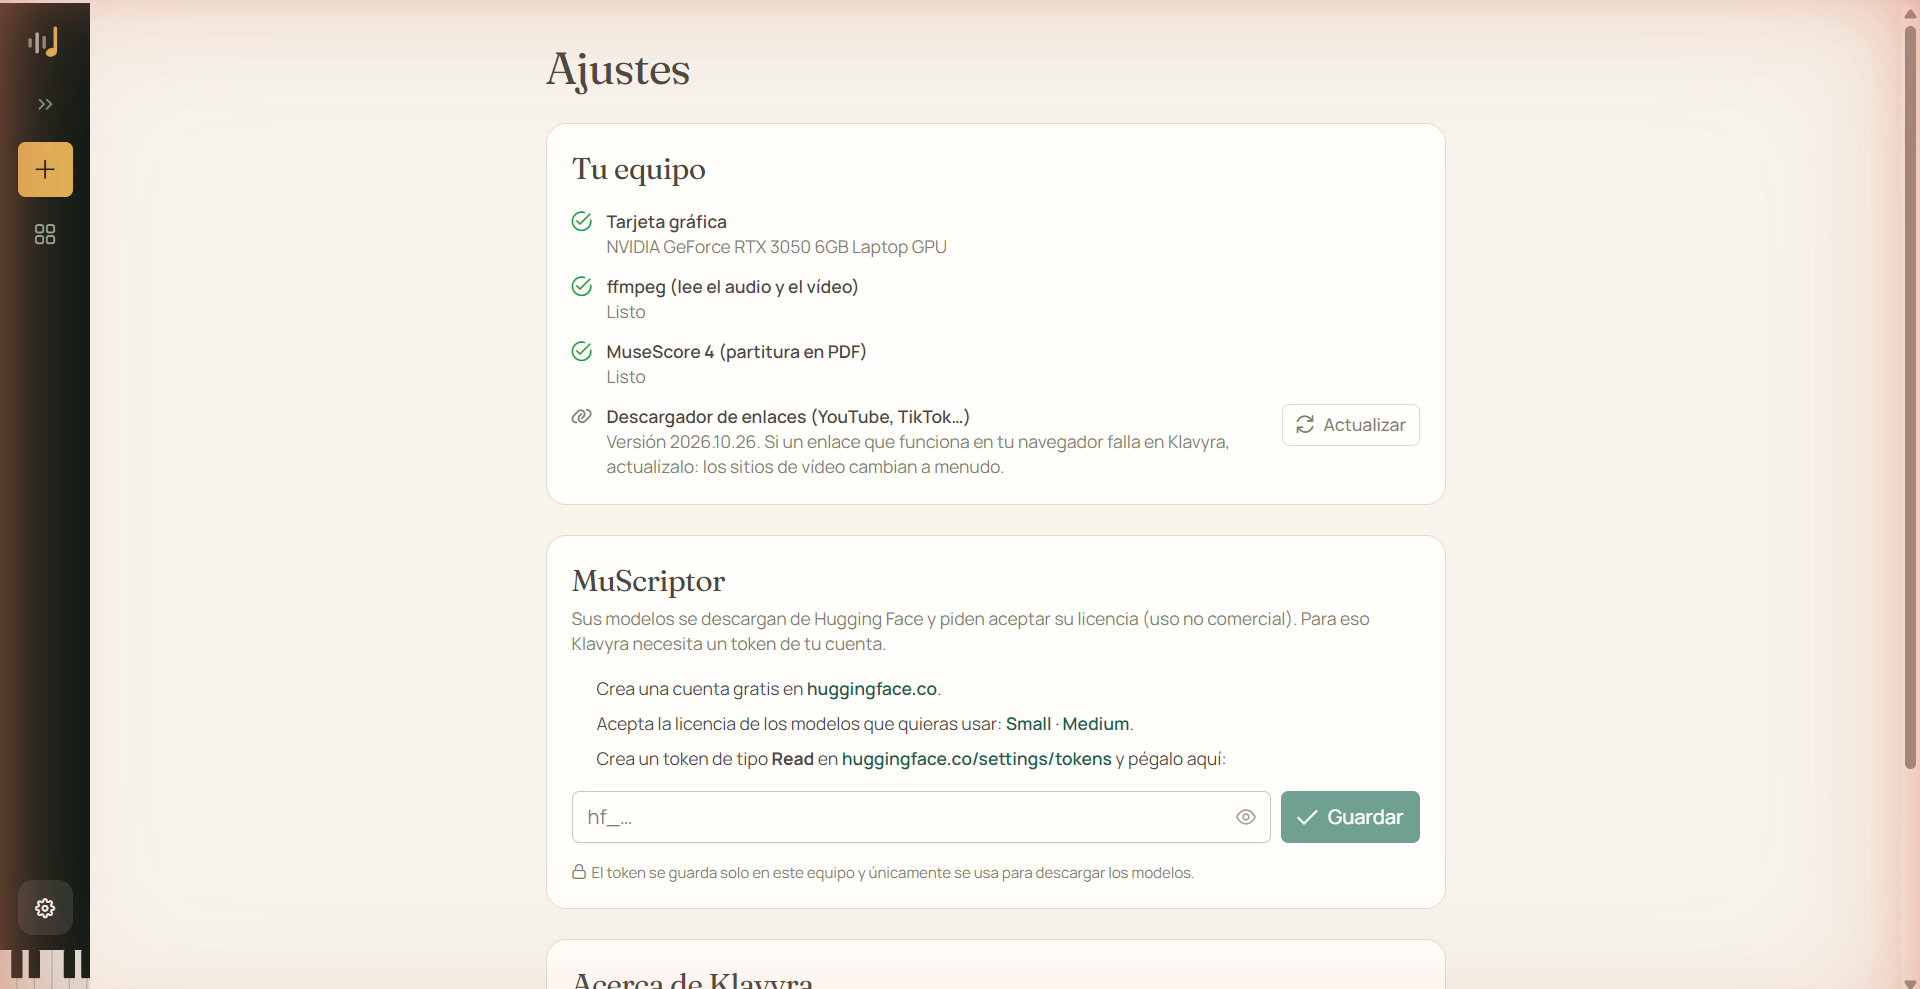
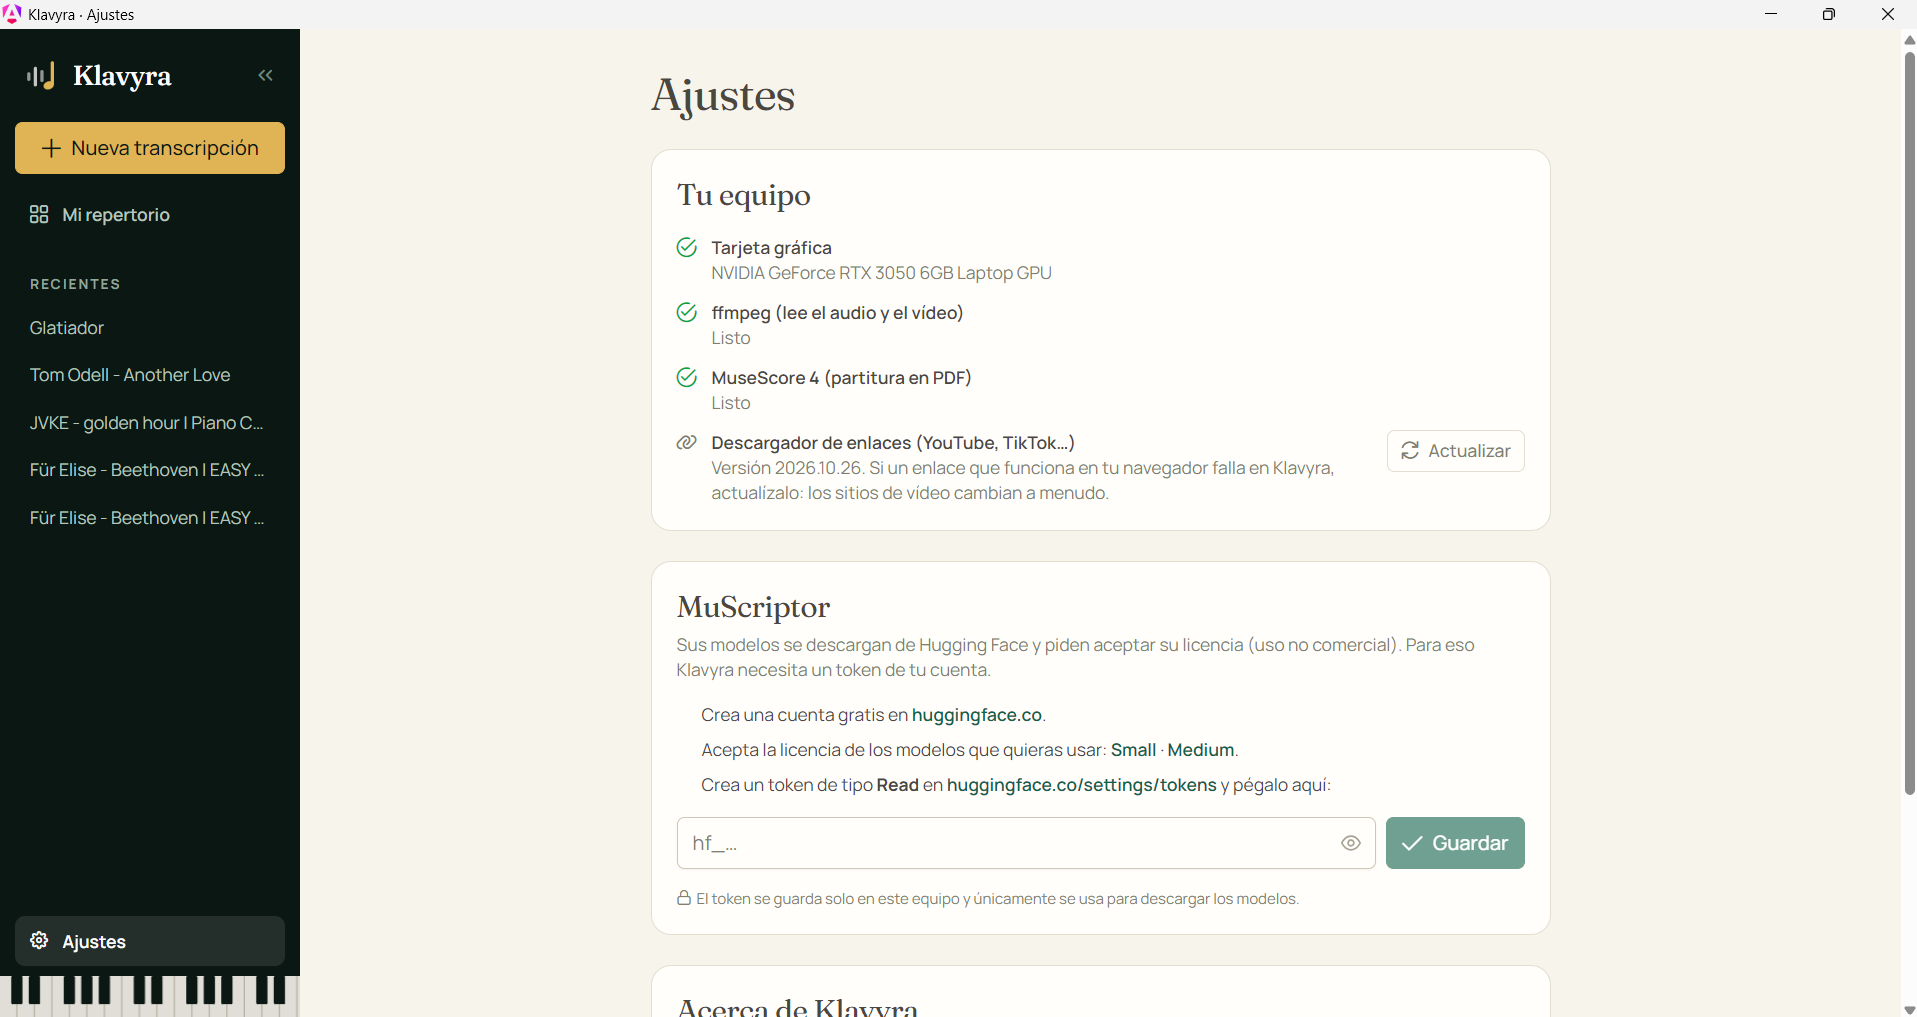
README: galería con las capturas de la app completa

diff --git a/README.md b/README.md
@@ -6,10 +6,10 @@ Convierte cualquier canción en piano que puedas tocar: teclas cayendo, partitur
 
 | | |
 |---|---|
-| ![Partitura con cursor que sigue la música](docs/partitura.png) | ![Sube un audio o pega un enlace](docs/inicio.png) |
-| **Partitura** con cursor que sigue la música | **Empieza** subiendo un audio o pegando un enlace |
-| ![Ajustes: estado del equipo y del descargador](docs/ajustes.png) | |
-| **Ajustes**: comprueba tu GPU, ffmpeg y MuseScore | |
+| ![Sube un audio o pega un enlace](docs/inicio.png) | ![Tu repertorio de transcripciones](docs/repertorio.png) |
+| **Empieza** subiendo un audio o pegando un enlace | **Mi repertorio**: todas tus transcripciones |
+| ![Partitura con cursor que sigue la música](docs/partitura.png) | ![Ajustes: estado del equipo y del descargador](docs/ajustes.png) |
+| **Partitura** con cursor que sigue la música | **Ajustes**: comprueba tu GPU, ffmpeg y MuseScore |
 
 ## Descargar
 
